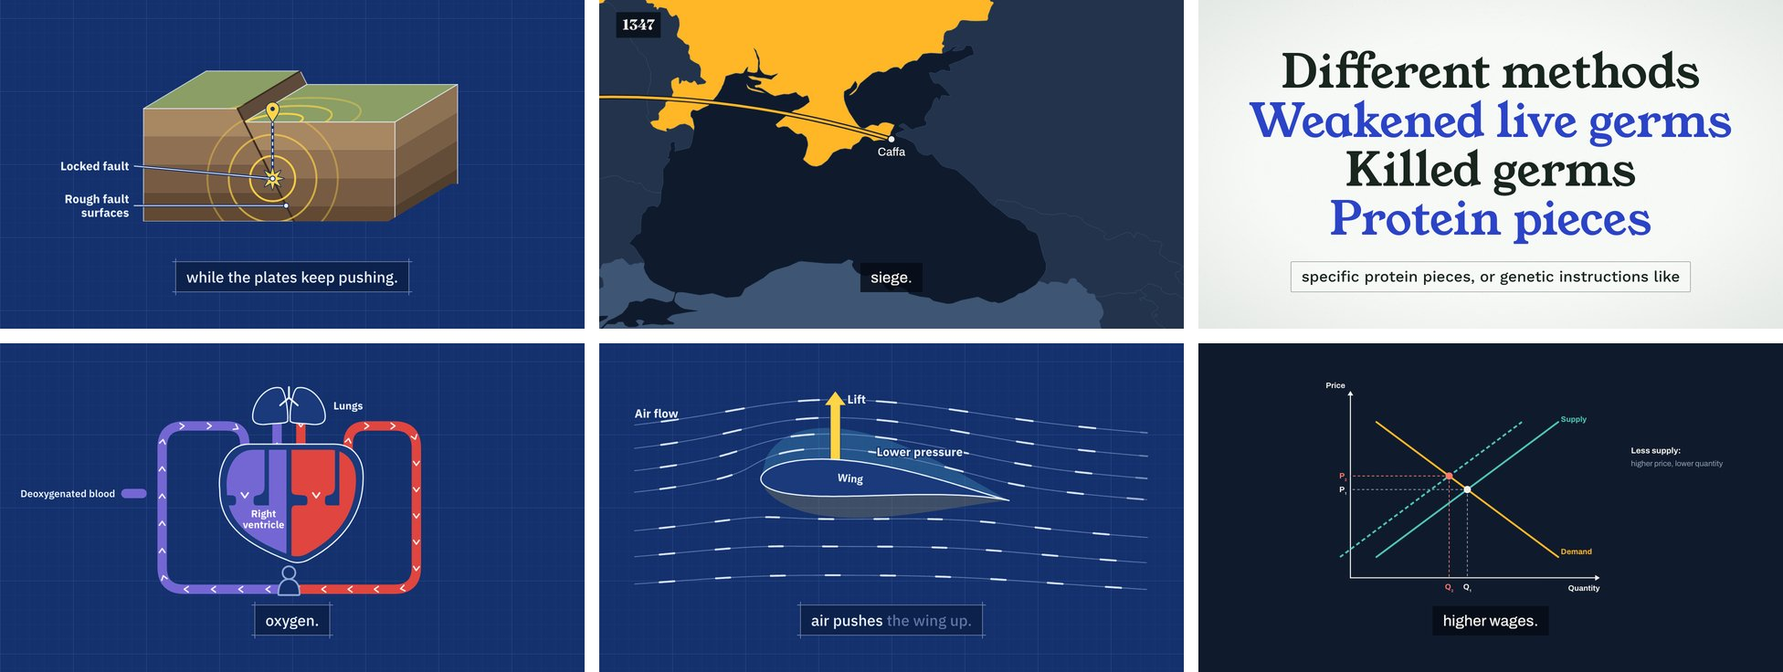
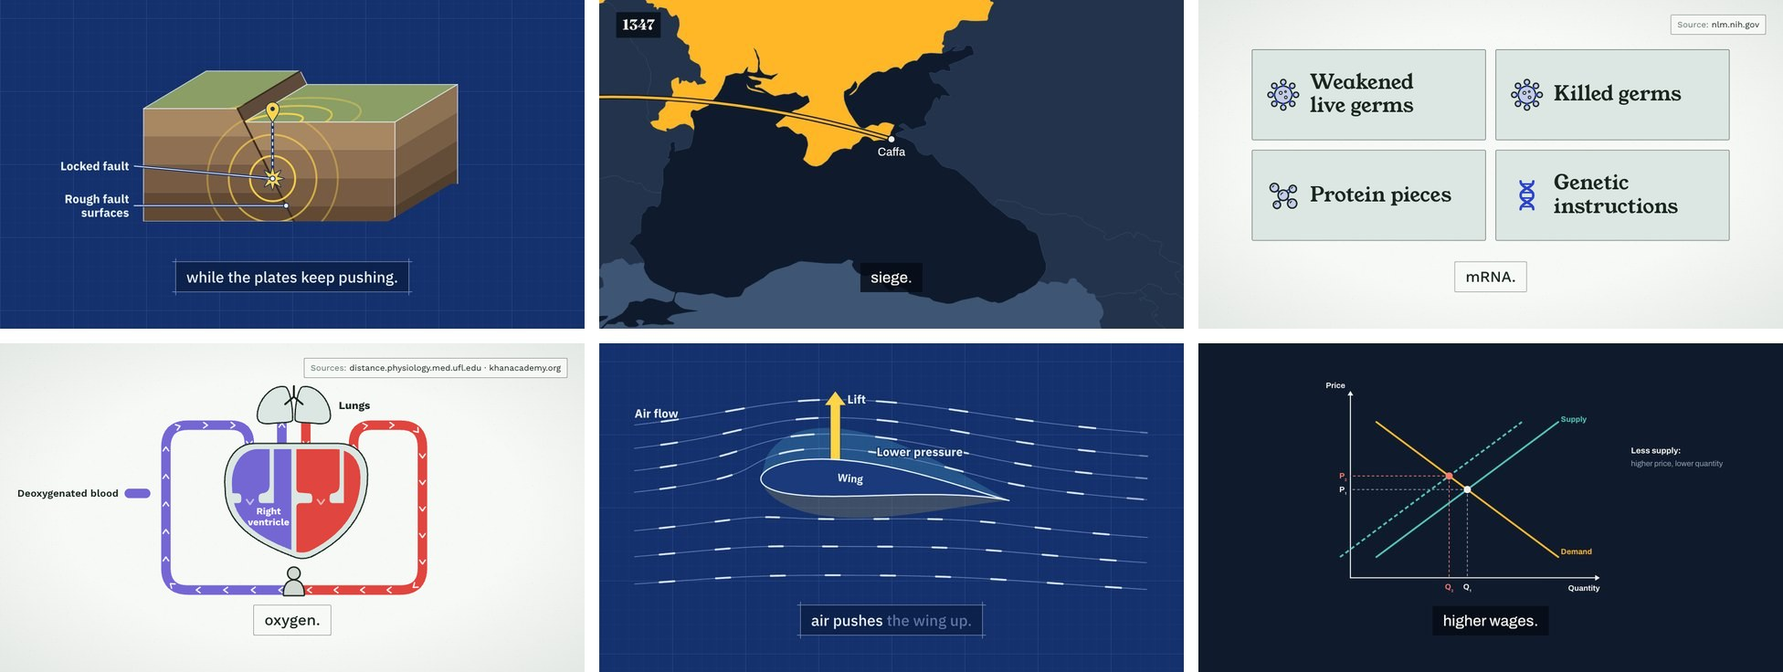
Correct the README, submission notes and feedback against the code and data
An audit of every claim found: at most 9 Tavily searches (18 credits), not 12;
two of the Black Death's four rewrites are about the feudalism hedge, not all
four; one feed video opens with its own first sentence, not often; the marker
sweeps over quotes only in two of the quote looks; the Nano and Lightning cost
claims overstated; 41 excluded sites. The README now says where Token Factory
sped the work up, lists every environment variable, and its scene image and
screenshots show the current feed.

diff --git a/README.md b/README.md
@@ -16,13 +16,13 @@ Meko is built for the Nebius x NVIDIA Global AI Hackathon (track: Best Apps and 
 
 Open the live demo at [meko-kappa.vercel.app](https://meko-kappa.vercel.app).
 
-- **Watch** shows videos Meko made, one per screen, to scroll through. Open **Fact-check** on any of them to see every sentence next to the source words behind it; in the Black Death video, four sentences were rewritten because the sources only say the plague "might have" ended feudalism. You can like and comment without an account.
+- **Watch** shows videos Meko made, one per screen, to scroll through. Open **Fact-check** on any of them to see every sentence next to the source words behind it; in the Black Death video, four sentences were rewritten to match their sources, two of them because the sources only say the plague "might have" ended feudalism. You can like and comment without an account.
 
-  ![The fact-check of the Black Death video: four sentences supported and four rewritten, one because the source only says the plague "might have" ended feudalism](docs/images/fact-check.png)
+  ![The fact-check of the Black Death video: the source says the plague "might have" ended feudalism, so Meko revised the sentence to "may have helped end feudalism"](docs/images/gallery-3.png)
 
 - **Make a video**: type a topic, pick an audience and a length, and choose **Make video**. Each step shows its progress, and the video plays when it is done, in about a minute. The hosted demo asks for a demo code, so strangers cannot spend the API credits; judges find it in the submission's testing instructions. A topic someone already made, with the same audience and length, plays at once from the library.
 
-  ![The start page: "Explainer videos you can check", the topic form, and three videos from the feed](docs/images/start-page.png)
+  ![The start page: "Explainer videos you can check" and the topic form](docs/images/gallery-1.png)
 
 ## Why you can trust a Meko video
 
@@ -33,7 +33,7 @@ The language model writes and checks everything, but plain code checks the model
 - **Every claim is checked.** The fact-check splits each sentence into its separate claims (people, numbers, dates, places, causes) and judges each one only against the quotes of the cited facts. Links count as claims too: two true facts joined by a false "after" or "because" make a false sentence, so the code spells out each link for the model to judge. So do the order of steps ("first", "then") and certainty: when a source says the plague "might have" ended feudalism, the narration may not say it did. Two checks run side by side and the stricter verdict counts. A sentence with an unsupported claim is rewritten or removed, and the code makes sure it can never be marked as supported.
 - **The narration is not touched again.** The director only chooses what is shown on screen. The voice reads the fact-checked text word for word.
 - **What is on screen is checked too.** Numbers on screen must appear in the narration or the cited facts, and labels must use their words; a one-word answer like "Yes" or "No" on a scoreboard must be one of them too. A number the sources give as a range ("25 to 50 million") is shown as the whole range, with the uncertain part drawn as an outline. Each bar on a chart needs a sentence in the scene that gives that number for that thing. Each event on a timeline names the fact that states its year (and its date, for events in the same year), and the code checks that they are in it; a period drawn under the events must be one a fact states, like "ruled from 1451 to 1481". A quote must be a whole sentence copied word for word from a source, never a shortened one. Each city on a map comes with its coordinates and the country it lies in, and the code checks that the point is inside that country's borders and asks the model a second time, in a separate call, where the city is. The same second opinion checks the labels on countries: a label that names a city, or a place in another country (the model once labeled Georgia "Caffa", a port in Crimea), is taken off, and a map must show a place its own scene names. Words on screen keep the narration's hedges, so "may have helped end feudalism" never becomes a card that says "End of feudalism", and "up to half" never becomes "half". A country cannot carry the name of a region it is not in, and an arrow labeled "eastward" must point east, which it may only say when the narration does. A video that is not about places, and a scene about space, gets no map. Figures stand only for people the narration names, drawn by the role they play, never by gender or looks. Route stops and places on the Moon come from tables in the code (cities from Natural Earth, Moon seas and landing sites from the USGS and NASA), never from the model's memory, and icons come from a fixed set drawn in code. Dots that show a number as part of a whole need the narration to say exactly that, a chart cannot compare dates or one amount in two units, and a number in a name (Apollo 11) is never shown as an amount.
-- **You can see all of it.** Every scene names the sites its facts come from in a corner of the video, and the video ends with credits that list every source and the result of the fact-check. When a scene quotes a source, a marker sweeps over the source's words while the claim is spoken. Next to the video, the fact-check report lists every sentence as supported, revised or removed, with the reason, the quotes and links to the sources. The sentence being spoken is marked as the video plays, and clicking a sentence plays the video from there.
+- **You can see all of it.** Every scene names the sites its facts come from in a corner of the video, and the video ends with credits that list every source and the result of the fact-check. When a scene quotes a source, the quote is shown word for word with the source's name, and in the plain quote scene and on a page of the source, a marker also sweeps over the quoted words while the claim is spoken. Next to the video, the fact-check report lists every sentence as supported, revised or removed, with the reason, the quotes and links to the sources. The sentence being spoken is marked as the video plays, and clicking a sentence plays the video from there.
 
 ## How it works
 
@@ -42,22 +42,23 @@ The browser calls five API routes in order and shows live progress for each:
 1. **Research** (`/api/research`). First, next to the search plan so it adds no time, Nemotron checks that the topic fits an educational explainer. Hard subjects like war, disease or extremism told as history or science are fine; requests for instructions to hurt someone or oneself, for weapons, drugs or breaking into accounts, sexual content, attacks on people, a private person, or text that is not a topic at all are turned down with a plain message before any search. Nemotron plans 3 to 6 web searches. [Tavily](https://tavily.com) runs them in parallel, preferring encyclopedias, museums and public bodies and leaving out homework-help, essay and Q&A sites. Meko picks the best new page for each search, and Nemotron extracts up to 6 facts from each page, with quotes, all at once. If the model finds an important gap, there is one more round of searches.
 2. **Script** (`/api/script`). Nemotron writes the narration, split into short scenes, with the fact IDs behind every sentence, and the question the video answers, which opens the video on the title card. The length follows the voice's measured pace of about 15 characters per second, counting numbers as the words the voice says ("1347" is "thirteen forty-seven") and leaving time for the credits; a script that is still too long loses sentences from its middle scenes.
 3. **Fact-check** (`/api/factcheck`). Nemotron checks every claim in every sentence against the quotes, twice at the same time, and the stricter verdict counts. Sentences are kept, revised or removed.
-4. **Direct** (`/api/direct`). One Nemotron call picks the look of the video from its topic (Night atlas for history and politics, Blueprint for science and technology, Field guide for nature and the body), describes in one sentence what the viewer should see in each scene, and ranks the kinds of picture that show it. The code picks a varied order from them, using only kinds the facts have data for: no timeline without years, no chart without numbers, no maps in a video that names no countries or regions, and no two scenes in a row that look alike. A second call, as a demanding editor, challenges the plan and may swap up to three scenes for a picture that shows the narration better. Then every scene is directed in its own small call, all in parallel. Besides maps, timelines, big numbers, charts, quotes, chains of causes, cards, scoreboards and figures, a scene can use one of more than 40 animated templates from Meko's own template library (`remotion/filmmotor`), like a cycle, a pyramid, a Venn diagram, pros and cons, a myth and the fact that busts it, a definition card, a year that rolls, a calendar page, a donut chart, a line chart, a document, a letter in its writer's own words, a formula or a funnel, each with its own checks against the sources. A video about how something works gets a scene drawn for it. More than 30 ready-made, animated drawings cover common topics: a volcano erupting, plate boundaries, earthquakes, the heart, the lungs, digestion, the eye, viruses, natural selection, food chains, photosynthesis, the water and carbon cycles, hurricanes, eclipses, black holes, how a wing lifts, solar panels, batteries, nuclear fission, how a fridge works, rockets, engines, and how neural networks, language models, GPUs and the internet work. Each is offered only when the narration explains that process, and what it shows (an eruption, a cell bursting open, an image landing upside down) follows what the narration says. For every other topic there is a kit of four pictures that adapt to any content: a cutaway (what is inside or under something), a journey (one thing travelling through stages), input and output (what a process takes in and gives out) and forces (the arrows on one thing). The model only says what is in them, by name, icon and place in words, and the code lays them out, places the labels and times each part to the voice, since language models are good at words and bad at geometry. Every word on them is checked like the rest: a flow between two things, a link in a food chain or a station on a journey must be stated by the narration, in its order. The opening varies too, and is drawn from the video's own first sentence where it can be: a globe turning to its part of the world, a number the narration says counting up as the voice says it ("over 1,500 years"), a dateline for a full date it states, the title rising word by word, the topic's icon in a ring that draws itself, a split screen, the question it answers, or the years it spans rolling by. Some scenes are then drawn with another template for the same content, like a cause chain, a pull quote, a page of the source with the quote marked, tiles, numbered rows, a sentence typed out, steps climbing a stair, a winding road or an odometer, so two videos rarely look alike. These are chosen by code, not the model, and they show only words and numbers the scene already says. Where code cannot be sure a picture keeps the sentence's meaning, it is not offered: a number opening only when the number stands alone in its sentence, and no highlight picked by code at all, since a negation, a hedge or a second number often sits outside the words it would mark.
+4. **Direct** (`/api/direct`). One Nemotron call picks the look of the video from its topic (Night atlas for history and politics, Blueprint for science and technology, Field guide for nature and the body), describes in one sentence what the viewer should see in each scene, and ranks the kinds of picture that show it. The code picks a varied order from them, using only kinds the facts have data for: no timeline without years, no chart without numbers, no maps in a video that names no countries or regions, and no two scenes in a row that look alike. A second call, as a demanding editor, challenges the plan and may swap up to three scenes for a picture that shows the narration better. Then every scene is directed in its own small call, all in parallel. Besides maps, timelines, big numbers, charts, quotes, chains of causes, cards, scoreboards and figures, a scene can use one of more than 40 animated templates from Meko's own template library (`remotion/filmmotor`), like a cycle, a pyramid, a Venn diagram, pros and cons, a myth and the fact that busts it, a definition card, a year that rolls, a calendar page, a donut chart, a line chart, a document, a letter in its writer's own words, a formula or a funnel, each with its own checks against the sources. A video about how something works gets a scene drawn for it. More than 30 ready-made, animated drawings cover common topics: a volcano erupting, plate boundaries, earthquakes, the heart, the lungs, digestion, the eye, viruses, natural selection, food chains, photosynthesis, the water and carbon cycles, hurricanes, eclipses, black holes, how a wing lifts, solar panels, batteries, nuclear fission, how a fridge works, rockets, engines, and how neural networks, language models, GPUs and the internet work. Each is offered only when the narration explains that process, and what it shows (an eruption, a cell bursting open, an image landing upside down) follows what the narration says. For every other topic there is a kit of four pictures that adapt to any content: a cutaway (what is inside or under something), a journey (one thing travelling through stages), input and output (what a process takes in and gives out) and forces (the arrows on one thing). The model only says what is in them, by name, icon and place in words, and the code lays them out, places the labels and times each part to the voice, since language models are good at words and bad at geometry. Every word on them is checked like the rest: a flow between two things, a link in a food chain or a station on a journey must be stated by the narration, in its order. The opening varies too, and is drawn from the video's own first sentence where it can be: a globe turning to its part of the world, a number the narration says counting up as the voice says it ("over 1,500 years"), a dateline for a full date it states, the title rising word by word, the topic's icon in a ring that draws itself, a split screen, the question it answers, or the years it spans rolling by. Some scenes are then drawn with another template for the same content, like a cause chain, a pull quote, a page of the source with the quote marked, tiles, numbered rows, a sentence typed out, steps climbing a stair, a winding road or an odometer, so two videos rarely look alike. These are chosen by code, not the model, and they show only words and numbers the scene already says. Where code cannot be sure a picture keeps the sentence's meaning, it is not offered: a number opening only when no other number in its sentence could change what it means, and no highlight picked by code at all, since a negation, a hedge or a second number often sits outside the words it would mark.
 5. **Voice** (`/api/voice`). [ElevenLabs](https://elevenlabs.io) reads each scene, with the text before and after for a natural flow. Its word timings set the length of each scene, drive captions that light up word by word, and time the pictures: a country lights up, a city appears or an arrow draws as the voice names it. A scene that names a year shows it in the corner. When two maps follow each other, the camera flies from one to the next; a map about a city first shows its country, then zooms in; and a video with maps that would end on plain text ends on a map of every place it showed instead. Every scene moves slowly, so no picture stands still, and soft sound effects made in code (a thud when a number lands, a rush of air when a map zooms in, a bell at the start and the end) sit under the voice.
 
 The result is a storyboard (plain JSON, see `lib/storyboard.ts`) that [Remotion](https://www.remotion.dev) plays in the browser. All visuals and sounds are made in code: no stock footage, images, music or recorded sounds.
 
-**The feed.** `/watch` shows videos made by Meko, one per screen, to scroll through like a short-video app. The video on screen starts by itself, muted, as browsers require; one tap or key turns the sound on, and it stays on for the next videos. A video that scrolls away stops and starts over when you come back, and only one ever plays. Search (`/` to focus it) looks through titles, narration and sources, ranks videos that are about the words first, and when nothing matches it offers to make a video about that topic. The feed's order and the openings and looks of its videos were picked for the whole feed at once (`npm run vary-examples`), so no two videos in a row open the same way or share a look; this changed only how scenes are drawn, never what they say, and two videos (the heart and Apollo 11) were moved to another look so the three are used about equally. Under each video it says how long the video took to make and what it cost, and that watching it again costs nothing, since it plays from saved files. The feed's videos were made with `npm run make-example`; for some, the director ran a second time on the same narration and we kept the better picture for each scene, and the cost and time shown include both runs. Viewers can like and comment without an account: each browser gets a made-up name like "Curious Heron 17", comments are limited in length and in how often one can post, and comments with links, swear words or slurs are turned down.
+**The feed.** `/watch` shows videos made by Meko, one per screen, to scroll through like a short-video app. The video on screen starts by itself, muted, as browsers require; one tap or key turns the sound on, and it stays on for the next videos. A video that scrolls away stops and starts over when you come back, and only one ever plays. Search (`/` to focus it) looks through titles, narration and sources, ranks videos that are about the words first, and when nothing matches it offers to make a video about that topic. The feed's order and the openings and looks of its videos were picked for the whole feed at once (`npm run vary-examples`), so no two videos in a row open the same way or share a look; this changed only how scenes are drawn, never what they say, and two videos (the heart and Apollo 11) were moved to another look, so the three are used more evenly (4, 4 and 2 videos, against 6, 3 and 1 before). Under each video it says when the video was made, how long that took and what its Nemotron calls cost, and that watching it again costs nothing, since it plays from saved files. The feed's videos were made on Oct 18, before Nemotron 3 Super directed the scenes, so they cost more than a video does now (about $0.065, see below). The feed's videos were made with `npm run make-example`; for some, the director ran a second time on the same narration and we kept the better picture for each scene, and the cost and time shown include both runs. Viewers can like and comment without an account: each browser gets a made-up name like "Curious Heron 17", comments are limited in length and in how often one can post, and comments with links, swear words or slurs are turned down.
 
 **The library.** Every finished video is saved in [Vercel Blob](https://vercel.com/docs/vercel-blob): the storyboard, the voice, the facts, the sources and the fact-check report. When someone asks for the same topic, audience and length again, the saved video plays at once and costs nothing, with a note saying when it was made and a button to make a new one. The diagrams the model draws are saved too, and a later scene about something similar gets the closest ones as examples, so the drawings improve as the library grows.
 
-On 10 test topics across history, science, nature, the body and technology (none of them in the feed), every video finished, and 97% of the sentences were supported as written; the fact-check rewrote the rest. Asked for 90 seconds, Meko made videos of 66 to 81 seconds in about 42 seconds each, for about $0.15 in Token Factory calls, plus 3 to 12 Tavily searches and the voice. Since Nemotron 3 Super directs the scenes, the same videos come to about $0.065 each. See `docs/eval.md`.
+On 10 test topics across history, science, nature, the body and technology (none of them in the feed), every video finished, and 97% of the sentences were supported as written; the fact-check rewrote the rest. Asked for 90 seconds, Meko made videos of 66 to 81 seconds in about 42 seconds each, for about $0.15 in Token Factory calls, plus 3 to 9 Tavily searches and the voice. Since Nemotron 3 Super directs the scenes, the same videos come to about $0.065 each. See `docs/eval.md`.
 
 We also tested the fact-check against answers known in advance. It caught all 44 sentences with a planted error (wrong numbers, dates, order, causes, hedges, people and places) and left all 14 correct ones alone. Reading 30 feed claims against the source pages themselves, 25 were supported, 5 went a step beyond their source (two of them since fixed), and none was false; 74 of the 82 quotes behind them were found word for word on the pages, and the other 8 could not be checked. See the trust test in `docs/eval.md`.
 
 ## How Meko uses Nemotron and Token Factory
 
-- **Models.** Three Nemotron models on Nebius Token Factory, each where it does best, called with the `openai` SDK through Token Factory's OpenAI-compatible API (`https://api.tokenfactory.nebius.com/v1/`). `nvidia/Nemotron-3-Ultra-550b-a55b` does everything that needs careful reasoning: the topic check, planning the searches, writing the script, the fact-check, planning the video and checking every place on a map. `nvidia/nemotron-3-super-120b-a12b`, at about a third of Ultra's price, directs each scene: re-directing the ten eval videos with it cost $0.037 a video for that step instead of $0.120 with Ultra, about as fast, with the same share of plain-text scenes (11 %) and the same checks passed. `nvidia/Nemotron-3_5-Lightning`, at about 6 % of Ultra's price, does the fast everyday calls: pulling facts with their quotes out of each source page (many small calls at once) and naming the opening card. If Lightning does not answer within 20 seconds, Super takes the call, and Lightning's calls for the next 5 minutes. On the same topics, extraction with Lightning kept about 90 % as many facts at a sixth of the cost (Ultra still plans the searches; when Lightning planned them too, it read fewer sources), and the share of supported sentences held. We picked the models with `scripts/check-models.ts`, which tested the four Nemotron models on Token Factory for strict JSON, tool calling, speed and price; Ultra was the only one that got every storyboard right. See `docs/model-check.md`.
+- **Models.** Three Nemotron models on Nebius Token Factory, each where it does best, called with the `openai` SDK through Token Factory's OpenAI-compatible API (`https://api.tokenfactory.nebius.com/v1/`). `nvidia/Nemotron-3-Ultra-550b-a55b` does everything that needs careful reasoning: the topic check, planning the searches, writing the script, the fact-check, planning the video and checking every place on a map. `nvidia/nemotron-3-super-120b-a12b`, at about a third of Ultra's price, directs each scene: re-directing the ten eval videos with it cost $0.037 a video for that step instead of $0.120 with Ultra, about as fast, with the same share of plain-text scenes (11 %) and the same checks passed. `nvidia/Nemotron-3_5-Lightning`, at about 6 % of Ultra's price, does the fast everyday calls: pulling facts with their quotes out of each source page (many small calls at once) and naming the opening card. If Lightning does not answer within 20 seconds, Super takes the call, and Lightning's calls for the next 5 minutes. On the same topics, research with Lightning doing the extraction kept about 90 % as many facts at about a sixth of that step's cost (Ultra still plans the searches; when Lightning planned them too, it read fewer sources), and the share of supported sentences held. We picked the models with `scripts/check-models.ts`, which tested the four Nemotron models on Token Factory for strict JSON, tool calling, speed and price; Ultra was the only one that got every storyboard right. See `docs/model-check.md`.
+- **Where Token Factory sped us up.** Its OpenAI-compatible API worked with the `openai` SDK unchanged, so our first script, which compared four Nemotron models on strict JSON, tool calling, speed and price (92 calls for $0.07), ran about 40 minutes after we started the project. Token Factory is serverless, so there were no GPUs to rent, set up or keep running, and the app on Vercel calls it like any other API. Three sizes of one model family behind one key let each call go where it fits: Lightning pulls facts out of source pages for a fraction of Ultra's price, and moving the scene calls from Ultra to Super cut the cost of a video from about $0.15 to about $0.065, with the same checks passed. With thinking off, Ultra answers a call in a few seconds, fast enough to make a video while the viewer waits.
 - **Thinking off.** Every call sends `chat_template_kwargs: { enable_thinking: false }`. In our tests, thinking made calls 2 to 10 times slower and never gave better results for these tasks, not even for the fact-check (see `FEEDBACK.md`).
 - **Strict structured output.** Every call uses `response_format: { type: "json_schema", strict: true }` with a schema built from zod. Token Factory enforces list limits like `maxItems` from the schema (we tested it), which Meko uses to stop runaway lists. The reply is validated again with zod.
 - **Checks and retries.** If a reply breaks a rule that a schema cannot express (an unknown fact ID, a number that is not in the sources, a city in the wrong country), the problems go back to the model, at most twice. If a scene's direction still breaks a rule after that, its broken parts are dropped instead of failing the whole video. If any other step fails, the app explains why and can try again from that step.
@@ -72,10 +73,10 @@ What was confusing, slow or broken along the way is written down in `FEEDBACK.md
 
 - **Planned, parallel searches.** Nemotron plans 3 to 6 searches for the topic, audience and length, and Meko runs them on Tavily at the same time. One failed search does not stop the others.
 - **Advanced depth with passages.** Each search uses `search_depth: "advanced"` with `chunks_per_source: 3`, so Tavily returns the three passages of each page that best match the query, instead of a short snippet. Those passages are the text the facts are drawn from.
-- **Trusted sources first.** `include_domains` with `include_domains_mode: "prefer"` steers Tavily toward 30 encyclopedias, museums, public bodies and science organizations without shutting out other good pages, and `exclude_domains` leaves out 40 homework, essay, Q&A, social and video sites. Meko then ranks each search's results by trust (preferred sites, `.gov`, `.edu` and museums, then other organizations) and Tavily's score, and takes the best new page from each search in turn, so every part of the plan gets a source and no page is read twice.
+- **Trusted sources first.** `include_domains` with `include_domains_mode: "prefer"` steers Tavily toward 30 encyclopedias, museums, public bodies and science organizations without shutting out other good pages, and `exclude_domains` leaves out 41 homework, essay, Q&A, social and video sites. Meko then ranks each search's results by trust (preferred sites, `.gov`, `.edu` and museums, then other organizations) and Tavily's score, and takes the best new page from each search in turn, so every part of the plan gets a source and no page is read twice.
 - **Tavily's text is the ground truth.** For each page, Nemotron 3.5 Lightning pulls out up to 6 facts, each with the exact words that state it. The server looks for those words in the passages Tavily returned and throws away any fact whose quote is not there. The fact-check later judges every sentence against these quotes, the report shows them next to each sentence, and a quote scene marks them on a page of the source.
 - **A second round for gaps.** When Nemotron finds something important missing, it writes up to 3 more searches and Tavily runs them, at most once and only while there is time.
-- **Cost.** A video makes 3 to 12 advanced searches (2 credits each). Without a key, Meko uses Tavily's keyless mode for development.
+- **Cost.** A video makes 3 to 9 advanced searches (2 credits each): 3 to 6 planned, and up to 3 more when there is a gap. Without a key, Meko uses Tavily's keyless mode for development.
 
 ## Setup
 
@@ -93,9 +94,11 @@ You need Node.js 22.18 or newer and npm.
    | --- | --- |
    | `NEBIUS_API_KEY` | API key for Nebius Token Factory |
    | `NEBIUS_MODEL` | Optional: the model for the reasoning steps. Leave it empty to use `nvidia/Nemotron-3-Ultra-550b-a55b` |
+   | `NEBIUS_SCENE_MODEL` | Optional: the model that directs each scene. Leave it empty to use `nvidia/nemotron-3-super-120b-a12b` |
+   | `NEBIUS_FAST_MODEL` | Optional: the model for the fast calls (pulling facts, naming the opening). Leave it empty to use `nvidia/Nemotron-3_5-Lightning` |
    | `TAVILY_API_KEY` | API key for Tavily web search. Without it, Meko uses Tavily's free keyless mode, which has a low hourly limit and is only meant for development |
    | `ELEVENLABS_API_KEY` | API key for ElevenLabs text-to-speech. Without it, videos play silently with captions |
-   | `ELEVENLABS_VOICE_ID` | The ElevenLabs voice. Meko uses the default voice George, `JBFqnCBsd6RMkjVDRZzb` |
+   | `ELEVENLABS_VOICE_ID` | The ElevenLabs voice, needed together with the key. `.env.example` sets George, one of ElevenLabs' default voices: `JBFqnCBsd6RMkjVDRZzb` |
    | `DEMO_CODE` | Needed on Vercel: making a video asks for this code, so strangers cannot spend your API credits. Without it, the deployed app makes no new videos. Use a long random code. Leave it empty locally |
    | `BLOB_READ_WRITE_TOKEN` | Optional, for running the library on your own machine: the read-write token of a public Vercel Blob store. On Vercel, connecting the store is enough. Without either, every video is made fresh and nothing is saved |
 
@@ -141,10 +144,10 @@ Each API route sets its own `maxDuration`, at most 180 seconds, which is within 
 | `lib/` | One file per pipeline step, the Token Factory, Tavily and ElevenLabs clients, the storyboard contract and the theme |
 | `lib/prompts/` | One file per prompt |
 | `remotion/` | The video: its scenes, the captions and the template library with its drawings (`remotion/filmmotor`) |
-| `scripts/` | The model check, the eval and the maker of the feed's videos |
-| `docs/` | The model check and eval reports |
+| `scripts/` | The model check, the eval, the maker of the feed's videos and the planner of their openings and looks |
+| `docs/` | The model check, the eval and trust test reports, the submission notes and the images |
 
-All colors, fonts, sizes and timings are in `lib/theme.ts`.
+The app's colors, fonts, sizes and timings are in `lib/theme.ts`, and the three looks of the videos are in `lib/themes.ts`.
 
 ## Known limitations
 

diff --git a/docs/submission.md b/docs/submission.md
@@ -84,12 +84,15 @@ like or comment without an account. Finished videos are saved, so the same reque
   supported, 5 go a step beyond their source (2 of them are fixed since), and none is false. 74 of the 82 quotes behind
   them were found word for word on the pages. The other 8 could not be checked, because the pages block automated
   access or load their text with JavaScript.
-- A 90-second video takes under a minute and about 6.5 cents of Nemotron calls (see `docs/eval.md`), and watching
-  it again costs nothing.
+- A video asked for 90 seconds takes under a minute and about 6.5 cents of Nemotron calls (see `docs/eval.md`), and
+  watching it again costs nothing. The feed shows higher numbers, up to 140 s and $0.40, because its videos were made
+  on Oct 18, before Nemotron 3 Super directed the scenes, and for some the director ran twice so we could keep the
+  better picture for each scene.
 - Videos do not look alike: the look, the opening and the kind of picture for each scene follow the topic. Scrolling
-  the feed, the 10 videos open in 8 different ways (before: 4, with 6 of 10 on the same title card), often with the
-  video's own first sentence, like a number counting up as the voice says it, and no two videos in a row share a look
-  or an opening. That pass only changes how a scene is drawn, never what it says.
+  the feed, the 10 videos open in 8 different ways (before: 4, with 6 of 10 on the same title card), and no two videos
+  in a row share a look or an opening. An opening can come from the video's own first sentence: the Silk Road opens
+  with "over 1,500 years" counting up as the voice says it. That pass only changes how a scene is drawn, never what it
+  says.
 
 ### What we learned
 
@@ -117,8 +120,8 @@ Lightning, Nebius Token Factory, Tavily, ElevenLabs, Vercel, Vercel Blob, zod, d
 Tavily is the ground truth of every Meko video. Nemotron plans 3 to 6 searches, and Meko runs them in parallel with
 `search_depth: "advanced"` and `chunks_per_source: 3`, so each page comes back as the three passages that best match the
 query. `include_domains` in "prefer" mode steers the searches toward 30 encyclopedias, museums and public bodies, and
-`exclude_domains` leaves out 40 homework, essay and social sites. Meko ranks the results by trust and score and reads the
-best new page from each search. Nemotron 3.5 Lightning pulls facts out of those passages, each with its exact words, and
+`exclude_domains` leaves out 41 homework, essay and social sites. Meko ranks the results by trust and score and reads up
+to six pages, taking the best new page from each search in turn. Nemotron 3.5 Lightning pulls facts out of those passages, each with its exact words, and
 the server keeps a fact only if Tavily's text really contains those words. The fact-check then holds every sentence of
 the narration to those quotes, and the viewer can read them next to the video. When the model finds a gap, a second
 round of Tavily searches fills it.
@@ -132,12 +135,13 @@ hand. Never put the code in the repository.
 1. Open https://meko-kappa.vercel.app.
 2. Choose **Watch** to scroll through videos Meko made. The video on screen plays by itself; tap it for sound. Type a
    topic in the search box to find a video, or to start one when there is none. Open **Fact-check** under a video to see
-   each sentence with the source words behind it, and click a sentence to play the video from there. The feed and the
+   each sentence with the source words behind it (on a phone it is the check mark), and click a sentence to play the
+   video from there. The feed and the
    fact-checks need no code.
 3. To make a video, go back to the start page, type a topic, pick an audience and a length, type the demo code in the
-   **Demo code** field next to **Make video**, and choose **Make video**. It takes about a minute. A topic someone
-   already made, with the same audience and length, plays at once from the library, so a topic that is not in the feed
-   shows the agent at work.
+   **Demo code** field next to **Make video**, and choose **Make video**. It takes about a minute. If the video plays at
+   once marked "From the library", someone made the same request before; choose **Make a new one** to watch the agent
+   make it again.
 4. Meko turns down requests for harmful instructions, sexual content, attacks on people, private persons and text that
    is not a topic. It makes at most 30 new videos from one address in ten minutes and 150 a day in all, and videos
    already made always play. If a service has run out of credits, the app says so in plain words, and the feed and the
@@ -159,7 +163,7 @@ order with these captions; Devpost allows 140 characters per caption. The projec
 
 ## YouTube
 
-Upload as **Public**. The repository link works once the repository is public on Oct 29.
+Uploaded as **Public**.
 
 Video link: https://youtu.be/LNudZHtkS2A (Public on the channel meko since Oct 22, 2026, and in Devpost's video field)
 
@@ -221,7 +225,7 @@ recording: once it is made, the same request plays at once from the library. Tha
 | 0:20 | The progress steps | "An agent built on NVIDIA Nemotron, on Nebius Token Factory, checks the topic and plans searches, and Tavily runs them. Nemotron pulls out facts, each with the exact words from its source, writes the script and fact-checks every claim." |
 | 0:45 | The video plays | "About a minute later the video plays. Every picture is drawn in code: the forces on the rocket, the stages burning out, the path into orbit, and captions that follow the voice." |
 | 1:15 | The fact-check report, click a sentence | "Next to it, every sentence with the source words behind it. Click one and the video jumps there." |
-| 1:35 | The feed, open the Black Death fact-check | "In the feed, here is the Black Death. Four sentences were rewritten, because the sources only say the plague might have ended feudalism. Meko says what its sources say, no more." |
+| 1:35 | The feed, open the Black Death fact-check | "In the feed, here is the Black Death. Four sentences were rewritten to match their sources. Two said the plague ended feudalism, but the source only says it might have. Meko says what its sources say, no more." |
 | 2:00 | Like, comment, search | "Anyone can watch, like and comment, without an account." |
 | 2:15 | Ask for the rocket video again | "Ask for the same video again and it plays at once from the library, for free. Making it took about 5 cents of Nemotron calls: Ultra for the reasoning, Super for directing the scenes, Lightning for the many small calls." |
 | 2:40 | The start page | "Meko. Explainer videos you can check. The code is open source under the MIT license." |
@@ -256,7 +260,7 @@ recording: once it is made, the same request plays at once from the library. Tha
 
 - Do not make "How do rockets reach space?" on the site before recording. Once it is made, it plays at once from the
   library, and the shots from 0:10 to 1:15 are lost. A retake needs a new topic for the same reason. Each new video
-  uses 6 to 24 Tavily credits.
+  uses 6 to 18 Tavily credits.
 - At most 2:50. The rules say under 3 minutes.
 - No music. The app's own sounds are made in code.
 - Upload to YouTube as **Public**, not Unlisted or Private, with the title and description from the YouTube section.

diff --git a/FEEDBACK.md b/FEEDBACK.md
@@ -10,7 +10,8 @@ What would help builders most, in order:
 2. **Complete docs for structured output.** The examples on the structured output page do not run, the page disagrees with itself about the shape of `json_schema`, and it does not list which JSON Schema features work. Strict `json_schema` even enforces `minItems` and `maxItems`, which is very useful and not documented.
 3. **Accurate model features in `/v1/models`.** `supported_features` lists only `tools` and `reasoning` for the Nemotron 3 models, yet strict `json_schema` works on all of them, and `verbose` has no description.
 4. **Docs for the thinking switch.** Say that `chat_template_kwargs: { enable_thinking: false }` is passed through, and warn that with thinking on, JSON tasks can run to `max_tokens` (Lightning hit our 6,000-token cap three times in a row).
-5. **For the Nemotron team.** Ultra with thinking off treats a hedge as wording ("might have ended" became "helped end"), misses false links between true facts, repeats confident place errors (the port of Caffa put in Georgia), writes fewer words than asked, and invents names outside a list it was given. Each was fixable with a check in code or a second call; the details and examples are below.
+5. **A status for each model.** On Oct 21, 2026, Nemotron 3.5 Lightning stopped answering for at least ten minutes while Ultra and Super answered at once. A status per model would have told us at once; Meko now hands Lightning's calls to Super when it does not answer within 20 seconds.
+6. **For the Nemotron team.** Ultra with thinking off treats a hedge as wording ("might have brought an end to feudalism" became "helped end feudalism"), misses false links between true facts, repeats confident place errors (the port of Caffa put in Georgia), writes fewer words than asked, and invents names outside a list it was given. Each was fixable with a check in code or a second call; the details and examples are below.
 
 What worked well: strict `json_schema` made replies parse reliably (only answers cut off at `max_tokens` did not); with thinking off, Ultra was fast enough for a pipeline that makes a video in under a minute; the OpenAI-compatible API worked with the `openai` SDK unchanged; and Lightning, at about 6 % of Ultra's price, is a very good fit for many small extraction calls.
 
@@ -29,7 +30,7 @@ Token Factory's OpenAI-compatible chat completions API and its models list, call
 Yes, for an app like Meko, for three reasons:
 
 - Strict JSON schemas hold, list lengths included, so a video can take more than 20 model calls with a check in code after each one.
-- Three sizes of one model family behind one API let each call go where it fits. Moving the scene calls from Ultra to Super and the extraction to Lightning cut the cost of a video from about $0.15 to about $0.065, with the same checks passed.
+- Three sizes of one model family behind one API let each call go where it fits. Lightning pulls facts out of source pages for a fraction of Ultra's price, and moving the scene calls from Ultra to Super cut the cost of a video from about $0.15 to about $0.065 (extraction was already on Lightning in both runs), with the same checks passed.
 - With thinking off, Ultra answers in a few seconds, fast enough to make a video while the viewer waits.
 
 What would make it an easy yes: prompt caching for shared prompt starts (most of our cost), complete docs for structured output, and a models list that names the features each model really has.
@@ -51,7 +52,7 @@ What would make it an easy yes: prompt caching for shared prompt starts (most of
 From our model check on Oct 13, 2026 (see `docs/model-check.md`):
 
 - With thinking on, Nemotron 3.5 Lightning hit our 6000-token cap on all 3 storyboard tries (about 27 s each) and never finished the JSON. With thinking off, it answered in about 3 s.
-- Nemotron 3 Nano 30B put years, fact IDs and coordinates into the country code fields of the map scene in all 6 storyboard tries.
+- Nemotron 3 Nano 30B failed all 6 storyboard tries: it put things that are not country codes into the country code fields of the map scene, such as years ("1789"), number pairs ("1920,1080"), fact IDs ("f4"), layer names ("overlay") and place names ("Paris", "France").
 - In the app (Oct 13), Nemotron 3 Ultra with thinking off once filled a short list until it hit max_tokens (500 tokens in 2 s), even with strict `json_schema`. Adding `maxItems` to the schema fixed it.
 - Ultra did not always keep a fixed list of scene IDs. Asked to return one entry per given scene, it added an extra title scene in front, and two retries with the error message did not fix it. A schema with one required key per scene fixed it for good.
 - Ultra with thinking off tends to write fewer words than asked. Asked for about 195 words, it often wrote 120 to 160, so our word-count check sends it back for another try. A video can come out much shorter than requested without that check.
